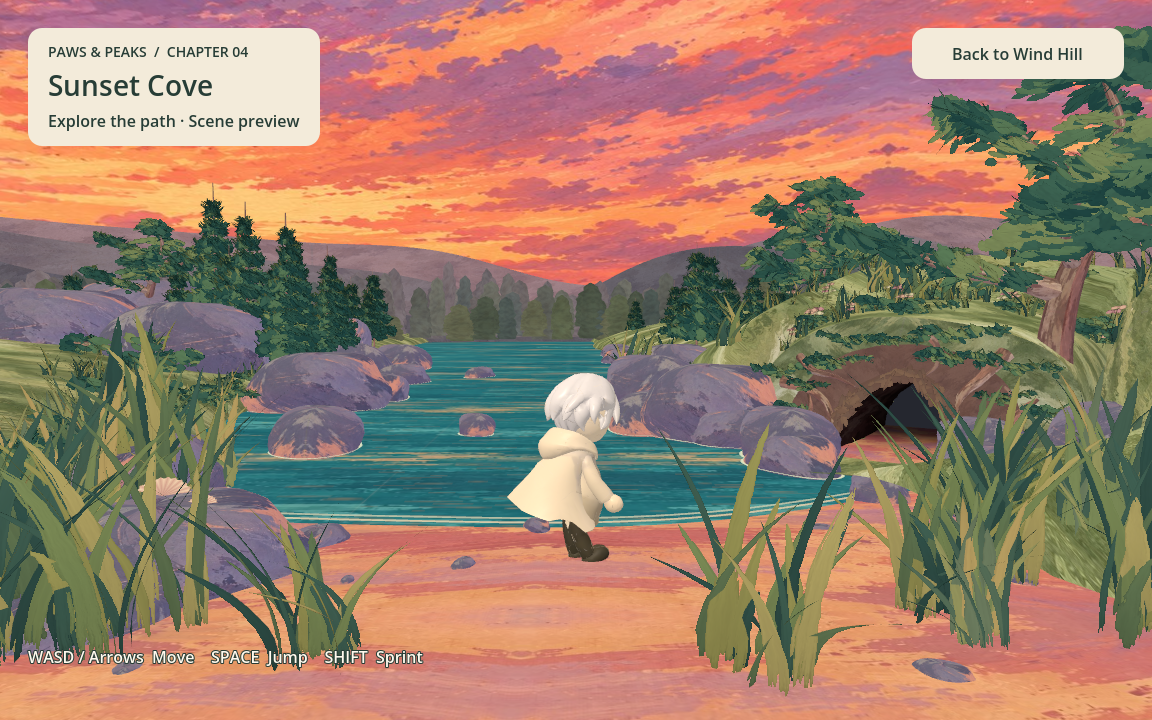
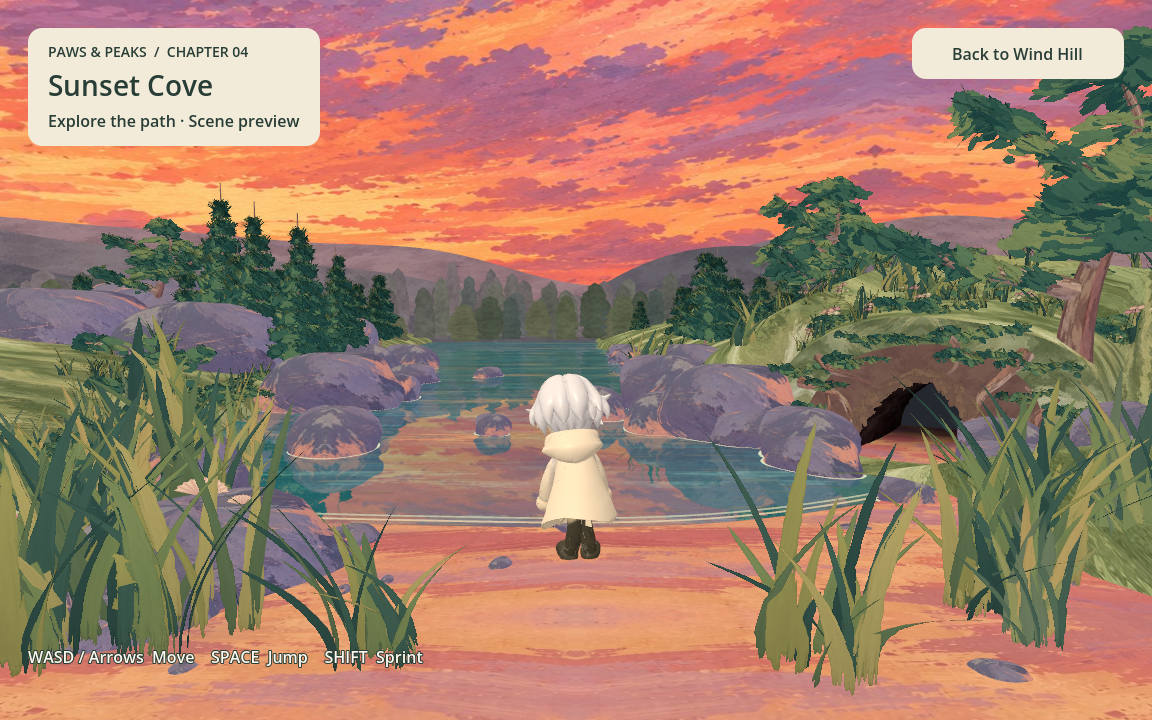
Add live planar water reflections to Sunset Cove

diff --git a/docs/3d_game/STAGE04_INTEGRATION.md b/docs/3d_game/STAGE04_INTEGRATION.md
@@ -56,11 +56,25 @@ and source files.
   sides of the sphere and drifts the painted clouds gently.
 - Water blends two continuously advancing samples of the delivered painted texture
   at 0.48 and 0.69 world units per second. This is a native Godot approximation.
+- A live planar reflection mirrors the gameplay camera across the water at
+  y=-0.07. A SubViewport shares the existing World3D, including the protagonist,
+  animated foliage and painted sky. Water and its overlays, plus the background
+  ground underlay, use visual layer 20 and are excluded from the reflection camera
+  to prevent feedback and underlay occlusion. The gameplay camera still sees them.
+  The water mixes the reflection with its painted color at 29–51% depending on
+  viewing angle, with small moving UV ripples adapted from the source renderer.
+- Reflection updates run after camera follow. The render target preserves the
+  gameplay aspect ratio on resize and is capped at 1280 by 720 pixels. A local
+  camera-axis flip keeps a valid camera basis; the shader reverses the image flip.
+  The scene owns its water material and viewport, which are freed on exit. This
+  adds a second scenery render pass; it does not duplicate geometry or physics.
+  See Godot's [viewport documentation](https://docs.godotengine.org/en/stable/tutorials/rendering/viewports.html)
+  for shared worlds and camera cull masks.
 - The imported `Handpainted_Breeze_And_Water` clip plays on a 16-second loop,
   retaining the source's 12 fps node animation. Godot consumes the `_Loop` suffix
   as an import hint. Leaves, grass, tree branches and exported water details animate.
-- The browser-only live planar reflections, dynamic painted shadows, extra surface
-  glazes and expanding contact-ripple shader are not ported. Contact waterlines
+- The browser-only dynamic painted shadows, extra surface glazes and expanding
+  contact-ripple shader are not ported. Contact waterlines
   retain their exported appearance. The Godot preview does not claim exact visual
   parity with the original HTML renderer.
 
@@ -78,11 +92,19 @@ sides of the +X boundary. The existing `woodland_exit_smoke.gd`,
 earlier scenes and unchanged -Z boundary. Scene-count assertions now count 3D
 worlds while allowing the GenerationWorker added by PR #30 to persist.
 
+`water_reflection_smoke.gd` checks shared-world rendering, water/underlay exclusion,
+camera projection after movement, resize aspect ratio and resolution cap, viewport
+cleanup and scene re-entry. Its rendered mode uses a live magenta probe over open
+water, checks the reflection camera's projected pixel, and verifies that enabling
+reflection changes the corresponding water pixel. It also captures the gameplay
+view and resized view for visual inspection.
+
 Run from the repository root:
 
 ```sh
 godot --headless --path 3d_game --script res://tests/sunset_cove_smoke.gd
 godot --headless --path 3d_game --script res://tests/wind_hill_exit_smoke.gd
+godot --path 3d_game --script res://tests/water_reflection_smoke.gd -- --visual
 ```
 
 Add `-- --visual` to the first command, and omit `--headless`, to capture Stage 3's

diff --git a/README.md b/README.md
@@ -181,7 +181,8 @@ In Stage 3, walk right toward the large rock beside the tree. Reaching its near
 edge automatically enters Stage 4, including when walking beside the path or
 jumping; climbing onto the rock is unnecessary. You can also run
 `3d_game/scenes/sunset_cove/sunset_cove.tscn` directly. Sunset Cove includes the
-painted beach and cave, collision, the shared protagonist, wind and water motion.
+painted beach and cave, collision, the shared protagonist, wind and water motion,
+and live water reflections of the sunset, scenery and character.
 **Back to Wind Hill** returns to Stage 3. Otter encounter gameplay remains open.
 See [Stage 04 integration](docs/3d_game/STAGE04_INTEGRATION.md) for verification and
 differences from the source HTML renderer.

diff --git a/docs/SPEC.md b/docs/SPEC.md
@@ -939,6 +939,7 @@ progresses horizontally to the right: reaching the large rock's near edge at
 world x>=9.5 enters Stage 4, with no restriction on Z position or jump height.
 This follows the user's requested vertical screen boundary and requires no jump
 onto the rock. Stage 4 includes the delivered terrain, camera, shared protagonist,
-painted materials and exported animation, with native water and sky motion.
+painted materials and exported animation, with native water and sky motion and
+live planar water reflections.
 E04 otter gameplay and Stage 5 remain open. See
 [Stage 04 integration](3d_game/STAGE04_INTEGRATION.md) for checks and visual limits.
